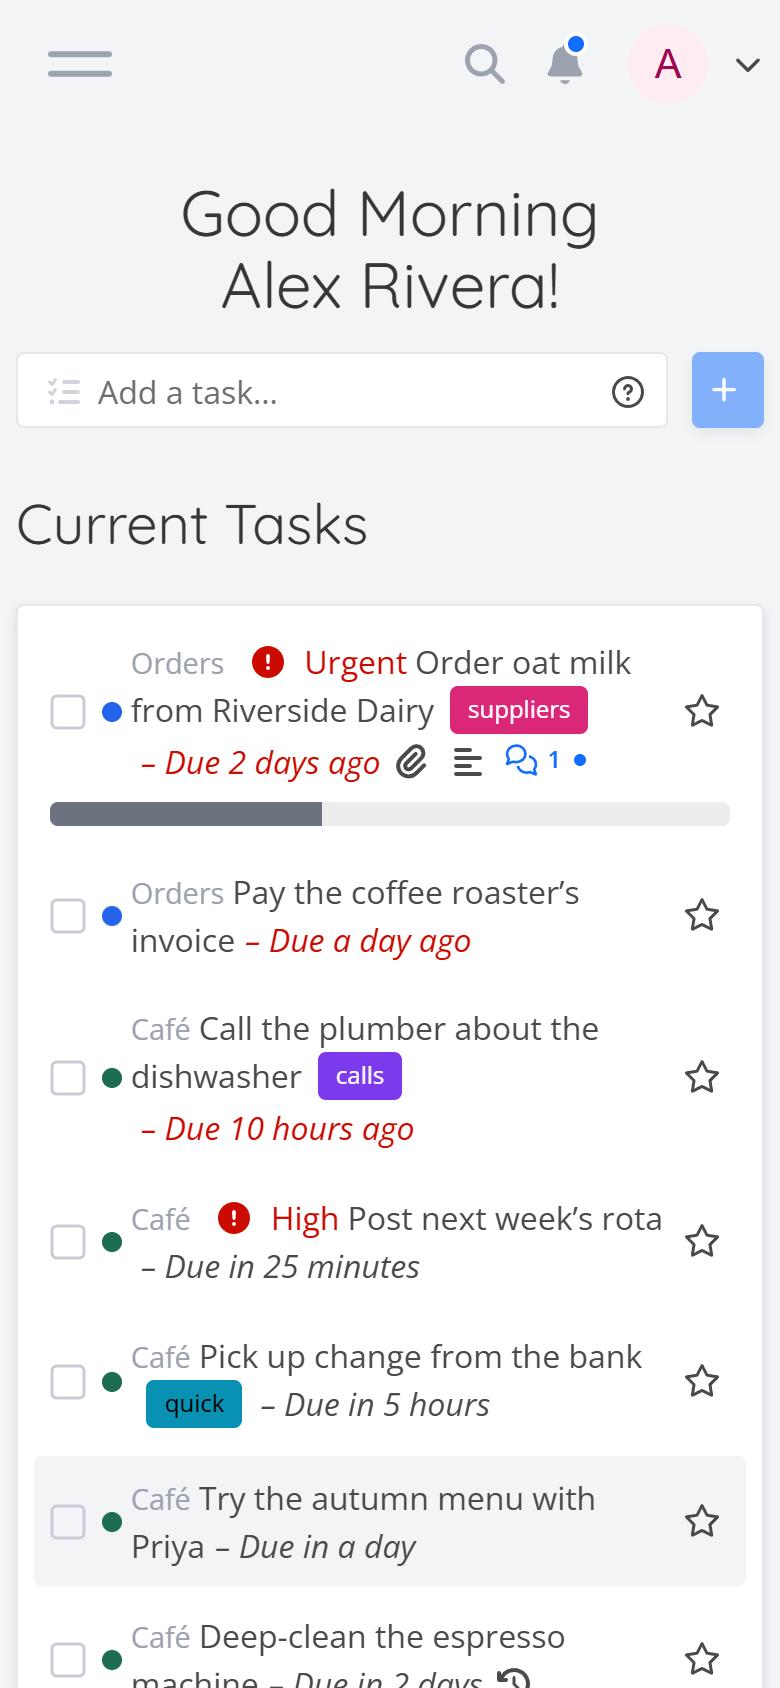
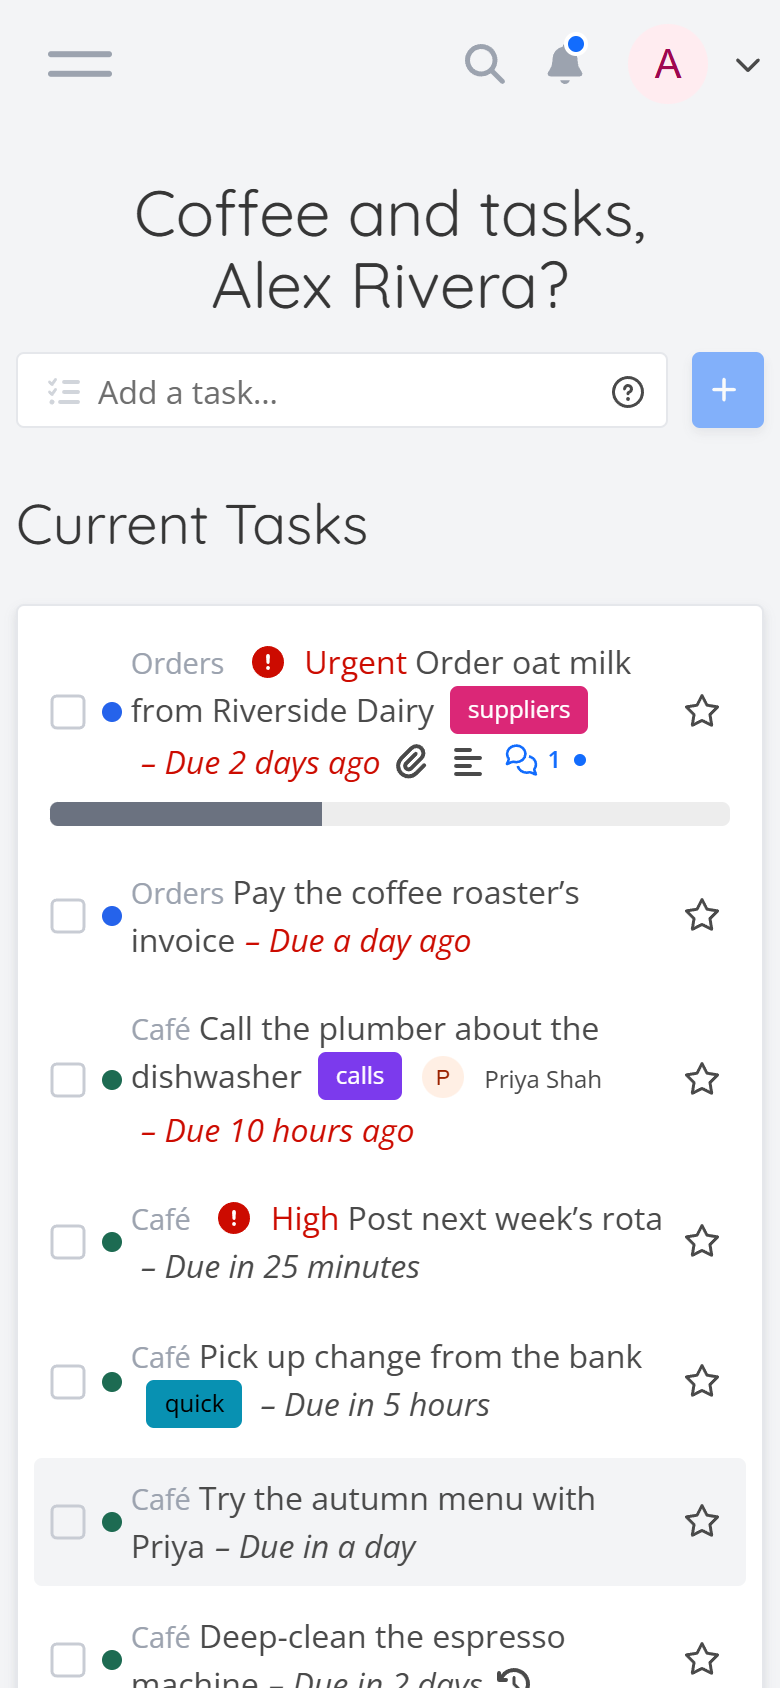
docs: the README's pictures made again for claim slots, progress that stops at quarters, and the Undo line in a row's place
The tasks GIF now slides progress to 25% and then 50%, taps "+ me" on the row,
and ticks a task off to its "Done: ... Undo" line. Priya has the plumber call,
so her picture shows at the end of its row. Subtasks are made last first, so
they come out in order in Vikunja's List view. The checklist GIF keeps its
story and shows the run's "Started" line instead of hiding a toast. The share
examples use 50%, a stop the slider has.

diff --git a/README.md b/README.md
@@ -11,8 +11,8 @@ like opening up and closing down, into checklists that you and your team tick of
     <th>Checklists</th>
   </tr>
   <tr>
-    <td><img src="docs/screenshots/pocket-demo.gif" width="280" alt="Typing 'Order 6 bags of house blend at 4 +orders !3' highlights the words Pocket reads, chips show Orders, Today 4:00 PM and Priority 3, and the task appears under Today. Then a finger holds 'Post next week's rota' and slides it to 60% done, and ticks off 'Pick up change from the bank', which slides away with an Undo."></td>
-    <td><img src="docs/screenshots/pocket-checklist.gif" width="280" alt="Starting the café's Opening up checklist. Once the espresso machine is on and the croissants are in, 'Dial in the grinder' and 'Take the croissants out' count down, pinned at the top."></td>
+    <td><img src="docs/screenshots/pocket-demo.gif" width="280" alt="Typing 'Order 6 bags of house blend at 4 +orders !3' highlights the words Pocket reads, chips show Orders, Today 4:00 PM and Priority 3, and the task appears under Today. Then a finger holds 'Post next week's rota' and slides it, stopping at 25% and then 50%, taps '+ me' on it so Alex's picture takes its place, and ticks off 'Pick up change from the bank', whose row becomes a line, 'Done: Pick up change from the bank', with Undo."></td>
+    <td><img src="docs/screenshots/pocket-checklist.gif" width="280" alt="Starting the café's Opening up checklist, which says it's started, with an Undo. Once the espresso machine is on and the croissants are in, 'Dial in the grinder' and 'Take the croissants out' count down, pinned at the top."></td>
   </tr>
 </table>
 
@@ -28,13 +28,13 @@ Type a task the way you'd say it: "Order 6 bags of house blend fri at 9 +orders 
 shows it in chips before you send. **Today** has what's overdue, what's due today and the week ahead. Tick a task off
 and its row says so, with an Undo, then folds away. Swipe a row left to delete it, with an Undo too.
 
-<img src="docs/screenshots/pocket-today.png" width="300" alt="Pocket's Today: 'Order oat milk from Riverside Dairy' overdue, 'Call the plumber about the dishwasher', 'Post next week's rota' and 'Pick up change from the bank' due today, and the café's week ahead">
+<img src="docs/screenshots/pocket-today.png" width="300" alt="Pocket's Today: 'Order oat milk from Riverside Dairy' overdue, 'Call the plumber about the dishwasher' (Priya's, her picture at its end), 'Post next week's rota' and 'Pick up change from the bank' due today, each other row with '+ me' at its end, and the café's week ahead">
 
 ## Hand it off
 
 Add `@priya` and the task is Priya's, in a project Priya can see. A checklist run can be for anyone on the team, and
 Vikunja tells them about it once, not once per step. To keep someone posted, **Share progress as a text**, in a task's,
-a project's or a run's ⋯, sends a few plain lines through the phone's share sheet: "Pack the van ▰▰▰▱▱ 60%", then a
+a project's or a run's ⋯, sends a few plain lines through the phone's share sheet: "Pack the van ▰▰▰▱▱ 50%", then a
 line for each subtask and who's on it.
 
 <img src="docs/screenshots/pocket-assign.png" width="320" alt="'Clean the milk steamer tomorrow @priya', with chips showing Café, Tomorrow and @priya">

diff --git a/docs/guide.md b/docs/guide.md
@@ -103,7 +103,7 @@ adding and finishing tasks, handing them on, and checklists. Boards, project set
   the phone's share sheet, to send it in a message, as a few plain lines:
 
   ```
-  Pack the van  ▰▰▰▱▱ 60%
+  Pack the van  ▰▰▰▱▱ 50%
   ✓ Load chairs
   ◐ Tables 50%
   ○ Sound system · Priya
@@ -119,7 +119,7 @@ adding and finishing tasks, handing them on, and checklists. Boards, project set
   included. Where there's no share sheet (on most computers), the text is copied instead, and the sheet says "Copied:
   paste it into a message".
 - **Copying:** beside it, **Copy as a Markdown list** copies the same as a list to paste into notes or a document, with
-  nothing collapsed: `## Pack the van (60%)`, then `- [x] Load chairs`, `- [ ] Tables (50%)`, `- [ ] Sound system
+  nothing collapsed: `## Pack the van (50%)`, then `- [x] Load chairs`, `- [ ] Tables (50%)`, `- [ ] Sound system
   @priya`. **Open in Vikunja ↗** opens the task, the project or the run in Vikunja's web app. In a task's sheet, the
   copy button beside **Notes** copies its notes as plain text, and the one on each comment copies that comment.
 - **Search:** the magnifier finds open and done tasks in all your projects, by words in their title or notes, or by
